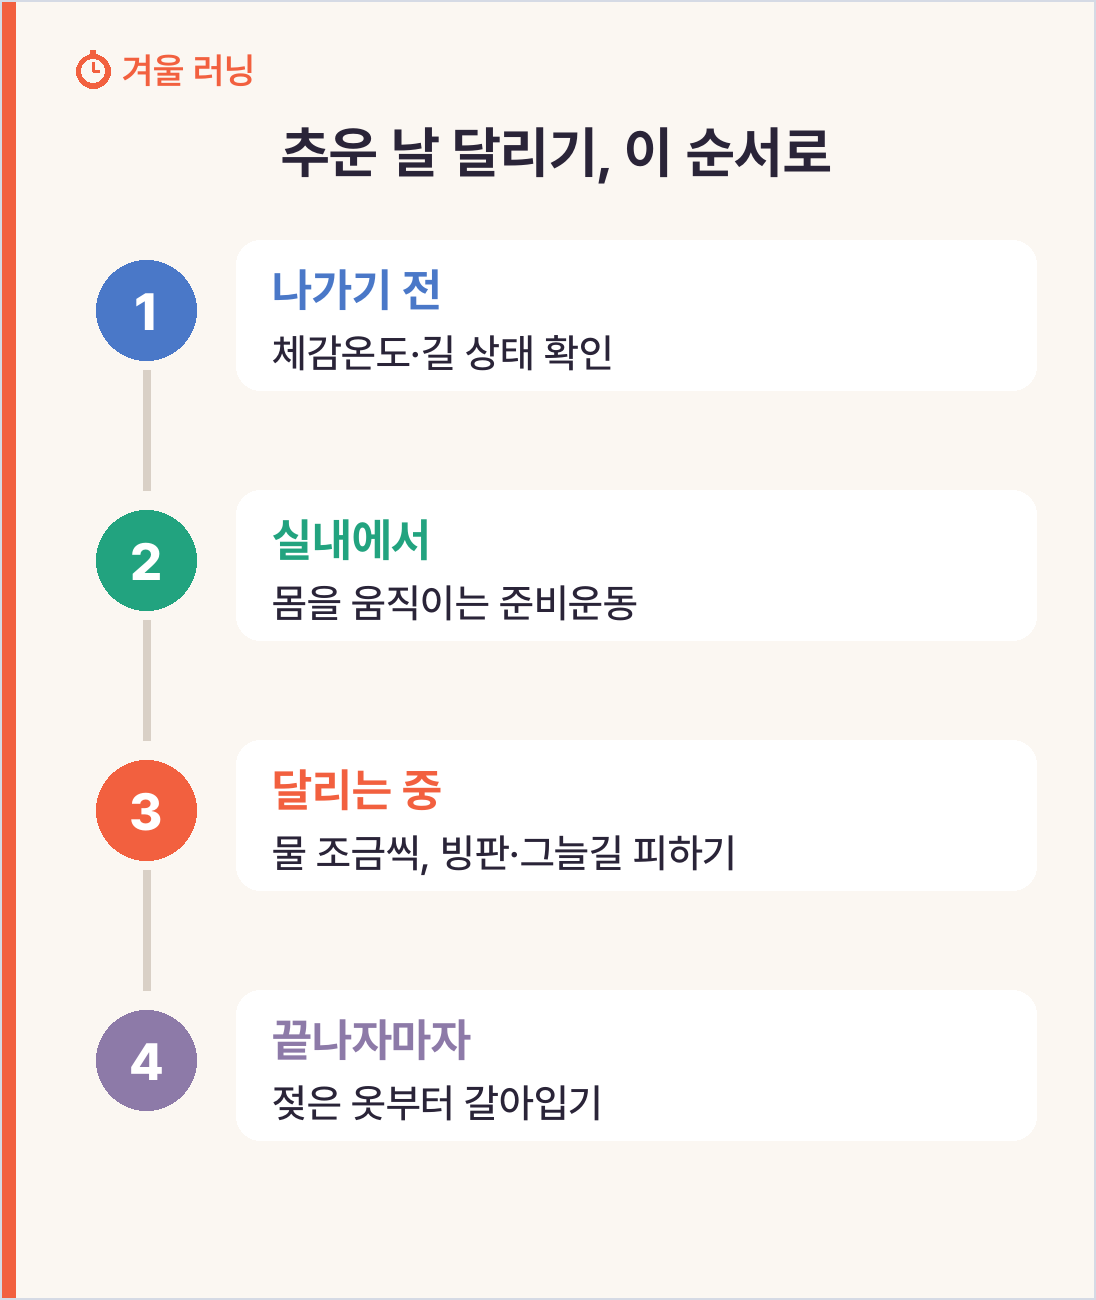
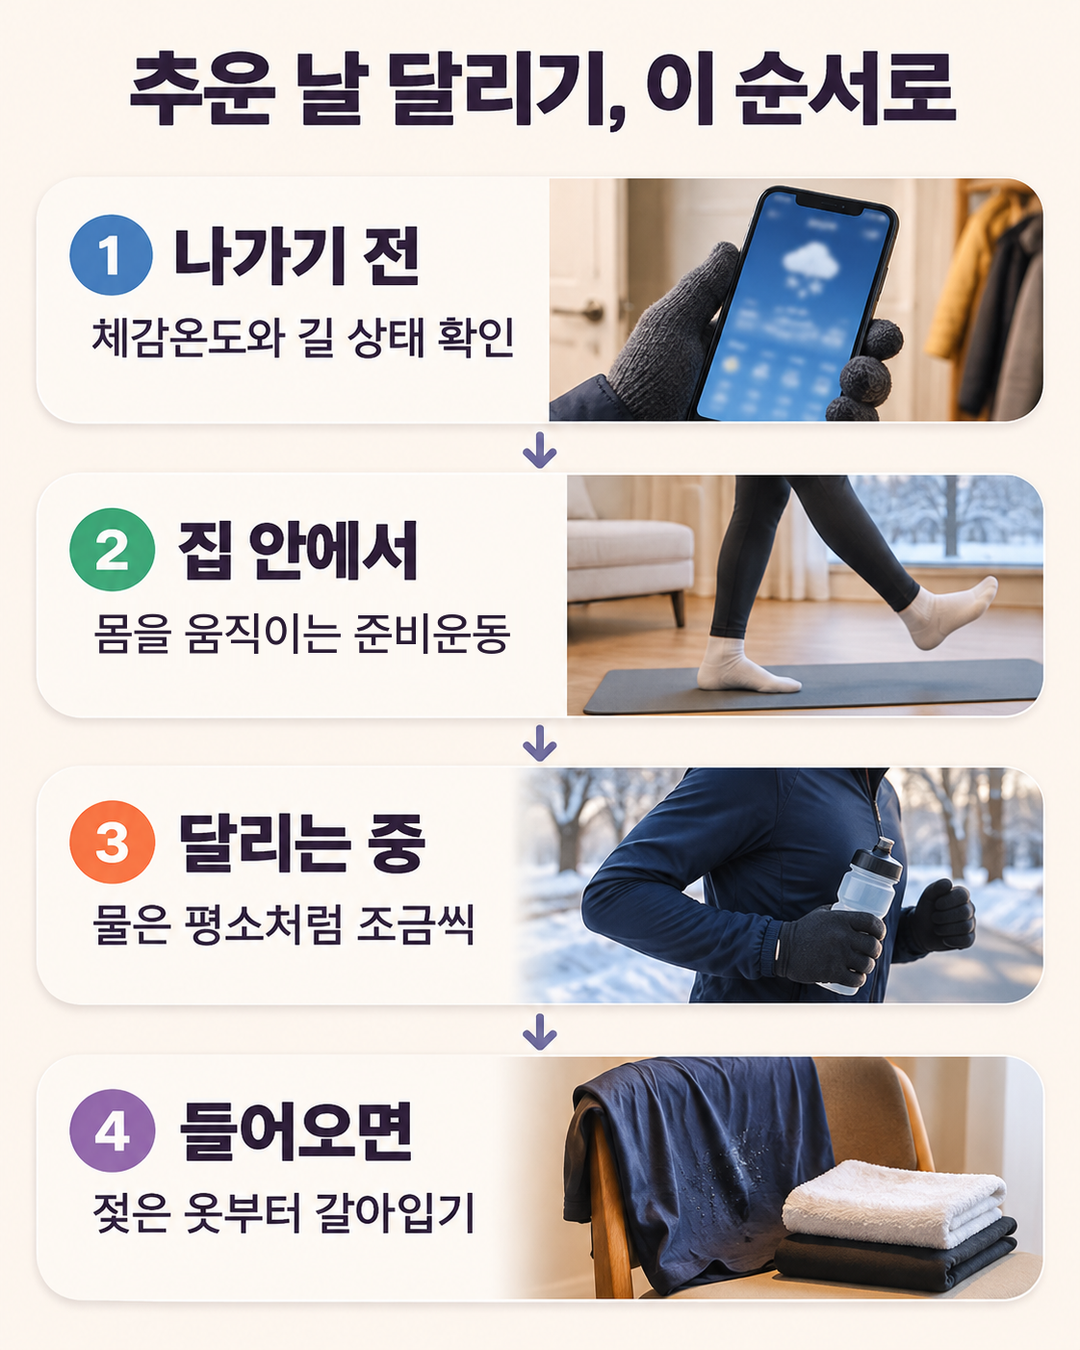
네이버 「겨울 러닝」 그림 03·04를 ChatGPT 그림으로 교체(04 오타 직접 수정), 이미지 요청 정리

diff --git a/문서/네이버-코딩가이드/20261128_겨울-러닝/index.html b/문서/네이버-코딩가이드/20261128_겨울-러닝/index.html
@@ -14,9 +14,9 @@
 디자인: 새벽 러닝 느낌 — 따뜻한 미색 바탕(#fbf7f2)·짙은 보라 남색 글자(#2a2438)·코랄(#f2603f)·민트(#22a37f)·하늘(#4a78c8)·연보라(#8d7aa8), Pretendard. 왼쪽 위 스톱워치 아이콘 + '겨울 러닝'(번호 없음). h3 기호 ▶, 강조색은 '이런 날은 쉬어 가기' 한 곳(코랄).
 - 01-타이틀.png (ChatGPT 실사풍, 1:1) — 사용자 요청으로 ChatGPT 타이틀로 교체(해 뜨기 전 서리 낀 공원 트랙과 뒷모습 러너, 글자 정확, 가장 넓은 줄 약 81%·세로 중심 약 49%, 로고·얼굴 없음, 1254 → 1080px. 원본은 자료실/제작-이미지).
 - 02-옷-겹쳐-입기.png (ChatGPT 에디토리얼 인포그래픽, 세로 1080×1350, 2026-11-28 교체: 바람막이·플리스·기능성 속옷 세 겹과 모자·장갑·목 가리개, 글자 정확, 로고·얼굴 없음, 1122×1402 → 1080×1350, 원본 scratchpad/backup/run-02-original.png. 앞 AI 버전은 세로 1152×1312 둥근 카드) — 겉(바람막이)·가운데(얇은 보온층)·속(땀이 빨리 마르는 옷) 세 겹과 모자·장갑·목 가리개.
-- 03-살짝-춥게-입기.png (AI, 1116×1036, 둥근 점선) — 실제 0℃ 아침이면 8~11℃ 날의 옷처럼 입는다는 것을 온도계 두 개로.
-- 04-달리기-전후-순서.png (AI, 세로 1096×1300, 왼쪽 띠) — 나가기 전·실내 준비운동·달리는 중·끝나자마자 네 단계.
-- 2026-11-28 사용자 요청으로 02·03·04도 ChatGPT 에디토리얼 인포그래픽(02 세로 1080×1350, 03 가로 1620×1080, 04 세로 1080×1350, 글자는 AI 버전과 같게, 03은 '공식 기준이 아닌 예시' 줄 추가)으로 요청함. 02는 받아 적용. 03·04는 처음 받은 그림 세 장이 두 그림을 한 장에 합쳤고, 03을 '0℃ 날 세 겹 vs 8~11℃ 날 두 겹'으로 그려 글 뜻과 반대였으며, 요청에 없는 글자('10~15분' 등)와 사람 얼굴이 있어 쓰지 않고 다시 요청함(받은 세 장은 자료실에 둠). 받기 전까지 AI 버전이 자리를 지킴(AI 버전 백업 scratchpad/backup/run-02·03·04-…-ai.png).
+- 03-살짝-춥게-입기.png (ChatGPT 반실사 에디토리얼, 가로 1620×1080, 2026-11-28 교체: 같은 러너가 서리 낀 현관 앞 '출발할 때'(쌀쌀) → 햇살 산책로 '달리는 중'(데워짐) 두 칸, 맨 아래 '바람이 세거나 아주 추운 날은 보온이 먼저', 온도 숫자 없음, 뒷모습만, 글자 정확, 1536×1024 → 1620×1080, 원본 scratchpad/backup/run-03-original.png)
+- 04-달리기-전후-순서.png (ChatGPT 반실사 에디토리얼, 세로 1080×1350, 2026-11-28 교체: 나가기 전·집 안에서·달리는 중·들어오면 네 칸, 손·다리만. 2번 설명 '움직어는' 오타를 '움직이는'으로 직접 고침(Pretendard Medium으로 줄 다시 씀), 1122×1402 → 1080×1350, 원본 scratchpad/backup/run-04-original.png)
+- 2026-11-28 사용자 요청으로 02·03·04도 ChatGPT 에디토리얼 인포그래픽(02 세로 1080×1350, 03 가로 1620×1080, 04 세로 1080×1350, 글자는 AI 버전과 같게, 03은 '공식 기준이 아닌 예시' 줄 추가)으로 요청함. 02는 받아 적용. 03·04는 처음 받은 그림 세 장이 두 그림을 한 장에 합쳤고, 03을 '0℃ 날 세 겹 vs 8~11℃ 날 두 겹'으로 그려 글 뜻과 반대였으며, 요청에 없는 글자('10~15분' 등)와 사람 얼굴이 있어 쓰지 않고 다시 요청함(받은 세 장은 자료실에 둠). 두 번째로 받은 03(8~11℃ 칸에 세 겹 옷)·04(바깥 준비운동, 겉옷 입기·정리 스트레칭 등 글에 없는 단계, 상표 같은 운동화 무늬)도 글과 맞지 않아, 사용자 요청으로 AI 그림과 상관없이 새로 구성해 다시 요청함(03은 숫자·온도계 없이 '출발할 때 쌀쌀 → 달리는 중 데워짐' 두 칸, 04는 '나가기 전·집 안에서·달리는 중·들어오면' 네 칸). 받은 그림은 지움. 세 번째로 받은 03·04를 적용함. 받기 전까지 AI 버전이 자리를 지킴(AI 버전 백업 scratchpad/backup/run-02·03·04-…-ai.png).
 - 05-함께-보면-좋은-글.png (AI 배너, 1600×234)
 - ChatGPT 요청은 타이틀 1장만(사용자 요청, 폰글 예외).
 

diff --git a/이미지요청-글.md b/이미지요청-글.md
@@ -21,41 +21,4 @@
 - **위아래 간격을 넉넉하게**: 제목 위 여백과 맨 아래 글 아래 여백은 각각 세로의 7% 이상, 제목과 그림 사이·그림과 아래 글 사이는 각각 5% 이상 띄워 주세요. 간격이 그림 크기보다 우선입니다. 알약·배지 속 글자는 이름표보다 크지 않게 작게 해 주세요.
 - **본문 인포그래픽의 글자는 너무 크지 않게**: 1080px 기준 제목 38~44px·이름표 28~32px·설명 24~28px 안팎이 기본이며, 각 항목에 적힌 크기보다 크게 하지 마세요.
 
-## [네이버] 겨울 러닝, 몇 도까지 괜찮을까? — 문서/네이버-코딩가이드/20261128_겨울-러닝
-
-### 03-살짝-춥게-입기.png (본문 인포그래픽, 가로 3:2, 1620×1080)
-- **다시 요청(2026-11-28)**: 앞서 받은 그림은 03과 04를 한 장에 합쳐 그렸고, 03을 '0℃ 날은 세 겹, 8~11℃ 날은 두 겹'처럼 **서로 다른 두 날씨**로 그려 이 글의 뜻과 반대였습니다. 이 그림의 뜻은 '**같은 0℃ 아침에, 옷은 8~11℃ 날처럼 조금 가볍게 고른다**'입니다(날이 두 개가 아님). 이 항목 하나만 한 장으로 그리고, 04와 합치지 마세요. 사람(얼굴)을 넣지 말고 온도계와 옷만 그리세요.
-- 종류: 세련된 에디토리얼 인포그래픽(반실사 3D 일러스트). 독자는 성인 — 내용은 쉽게, 표현은 세련되게. 귀여운 캐릭터·말풍선·반짝이·장난감 같은 3D·굵은 테두리 만화 글씨 금지.
-- 장면: 왼쪽에 서리 낀 새벽 현관 앞 유리 온도계(눈금이 0℃, 파란 액체), 오른쪽에 같은 모양 온도계(눈금이 8~11℃ 구간, 코랄 액체)와 그 옆에 얇은 러닝 긴팔과 바람막이 한 벌. 가운데에 왼쪽에서 오른쪽으로 가는 가는 화살표. 온도계 두 개와 옷이 화면의 60~70%를 차지하게.
-- 넣을 글자(적힌 그대로, 이것만):
-  - 제목(맨 위 가운데): 실제 기온보다 조금 따뜻한 날처럼 입기
-  - 화살표 위: 달리면 데워져요
-  - 왼쪽 온도계 옆 숫자: 0℃ / 아래 이름표: 실제 기온 / 그 아래 설명: 예: 0℃ 아침
-  - 오른쪽 온도계 옆 숫자: 8~11℃ / 아래 이름표: 옷차림 참고 / 그 아래 설명: 예: 8~11℃ 날의 옷
-  - 맨 아래 한 줄: 공식 기준이 아닌 예시예요 · 바람이 세거나 아주 추운 날은 보온이 먼저
-- 글자 크기(가로 1620px 기준, 이보다 크게 하지 말 것): 제목 40~44px, 온도 숫자 44~48px, 이름표 28~32px, 설명·화살표 글자 24~26px, 맨 아래 한 줄 22~24px. 굵은 글씨는 제목·숫자·이름표에만.
-- 여백·간격: 네 변 가장자리 5~7% 안쪽만 비우기. 제목 위 여백과 맨 아래 글 아래 여백은 각각 75~80px 이상, 제목–그림 사이와 그림–아래 글 사이는 55~60px 이상, 아래 글 두 줄 사이 20px 안팎. 간격이 그림 크기보다 우선(모자라면 그림을 줄일 것). 너무 빡빡하지도, 너무 비지도 않게.
-- 색: 따뜻한 미색 바탕(#fbf7f2), 글자는 짙은 보라 남색(#2a2438), 차가운 쪽 하늘색(#4a78c8), 따뜻한 쪽 코랄(#f2603f). 단정한 고딕체.
-- 금지: 화씨(℉) 표기, 상표·로고, 사람 얼굴, 테두리(액자), 적은 것 외의 요소·문장.
-- 이 그림이 알려 주는 것: 달리면 몸이 데워지니 출발할 때는 실제 기온보다 따뜻한 날의 옷차림을 참고한다는 것(공식 기준이 아니라 예시라는 점까지).
-
-### 04-달리기-전후-순서.png (본문 인포그래픽, 세로 4:5, 1080×1350)
-- **다시 요청(2026-11-28)**: 앞서 받은 그림은 03과 합쳐 한 장에 그렸고, 요청에 없는 글자('10~15분', '따뜻한 음료', '정리 스트레칭' 등)와 사람 얼굴이 들어갔습니다. 이 항목 하나만 한 장(세로 1080×1350)으로 그리고, 아래 '넣을 글자'만 적힌 그대로 쓰세요. 얼굴이 보이는 사람은 넣지 말고 손·다리·뒷모습만 쓰세요.
-- 종류: 세련된 에디토리얼 인포그래픽(반실사 3D 일러스트). 독자는 성인 — 내용은 쉽게, 표현은 세련되게. 귀여운 캐릭터·말풍선·반짝이·장난감 같은 3D·굵은 테두리 만화 글씨 금지.
-- 장면: 위에서 아래로 이어지는 네 단계 길(얇은 선으로 이어진 네 칸). 칸마다 작은 장면 그림 하나:
-  ① 현관 안에서 휴대폰 날씨 화면을 보는 손(화면 글자는 흐리게)
-  ② 거실 매트 위에서 다리를 흔드는 운동화 신은 다리(얼굴 없이 하반신만)
-  ③ 겨울 새벽 산책로를 달리는 뒷모습과 손에 든 작은 물병, 길가 그늘의 살얼음
-  ④ 현관에 벗어 둔 젖은 러닝 옷과 접힌 마른 수건·새 옷
-- 넣을 글자(적힌 그대로, 이것만):
-  - 제목(맨 위 가운데): 추운 날 달리기, 이 순서로
-  - 1 / 나가기 전 / 체감온도·길 상태 확인
-  - 2 / 실내에서 / 몸을 움직이는 준비운동
-  - 3 / 달리는 중 / 물 조금씩, 빙판·그늘길 피하기
-  - 4 / 끝나자마자 / 젖은 옷부터 갈아입기
-- 글자 크기(가로 1080px 기준, 이보다 크게 하지 말 것): 제목 40~44px, 번호 28~32px, 단계 이름 28~32px, 설명 24~26px. 굵은 글씨는 제목과 단계 이름에만.
-- 여백·간격: 네 변 가장자리 5~7% 안쪽만 비우기. 제목 위 여백과 맨 아래 글 아래 여백은 각각 75~80px 이상, 제목–첫 칸 사이 55~60px 이상, 칸과 칸 사이 고르게. 네 칸이 화면 높이 전체에 고르게 퍼지게(아래쪽이 휑하게 비지 않게). 간격이 그림 크기보다 우선. 너무 빡빡하지도, 너무 비지도 않게.
-- 색: 따뜻한 미색 바탕(#fbf7f2), 글자는 짙은 보라 남색(#2a2438). 단계 색은 1 하늘(#4a78c8), 2 민트(#22a37f), 3 코랄(#f2603f), 4 연보라(#8d7aa8). 단정한 고딕체.
-- 금지: 상표·로고·브랜드 글자, 사람 얼굴(뒷모습·손·다리만), 테두리(액자), 적은 것 외의 요소·문장.
-- 이 그림이 알려 주는 것: 나가기 전부터 끝난 뒤까지 챙길 일을 순서대로 한눈에.
-
+현재 요청 없음

diff --git a/AGENTS.md b/AGENTS.md
@@ -288,7 +288,7 @@
   - 같은 날 사용자 요청으로 h3 '배터리 숫자가 뚝 떨어졌다 다시 오르는 이유' 추가(공백 포함 1,807자): 퍼센트는 전류·전압으로 어림한 값(Battery University BU-903), 추위에 줄어든 용량은 실온에서 회복(BU-502). 표시가 다시 오르는 현상은 제조사 공식 문장이 없어 '알려져 있다'로. 이어서 사용자 요청으로 01 타이틀을 ChatGPT 그림('겨울 폰 배터리 / 왜 빨리 닳을까?', 눈 오는 정류장·장갑 낀 손·빈 배터리 화면)으로 바꿈(폰글 규칙의 예외, 사용자 요청).
 
 - (2026-11-28 진행 상황 이어서) 네이버 「블랙아이스, 왜 안 보일까? 잘 생기는 곳과 운전·보행 요령」 작성(폰글 두 번째, 생활 정보, 이미지 5장 AI 제작, 그림 스크립트 `도구/폰글이미지_블랙아이스.py`, 폴더 `문서/네이버-코딩가이드/20261128_블랙아이스`).
-- (2026-11-28 진행 상황 이어서) 네이버 「겨울 러닝, 몇 도까지 괜찮을까? 옷차림부터 쉬어야 할 날까지」 작성(폰글 세 번째, 여행·취미·문화, 이미지 5장 AI 제작, 그림 스크립트 `도구/폰글이미지_겨울러닝.py`, 폴더 `문서/네이버-코딩가이드/20261128_겨울-러닝`). 같은 날 사용자 요청으로 01 타이틀을 ChatGPT 그림으로 바꿨고, 02 옷 겹쳐 입기·03 살짝 춥게 입기·04 달리기 전후 순서도 ChatGPT 인포그래픽으로 요청함(받기 전까지 AI 버전이 자리를 지킴). 02는 받아 적용. 03·04는 처음 받은 그림이 두 그림을 한 장에 합쳤고, 03을 '0℃ 날 세 겹 vs 8~11℃ 날 두 겹'처럼 서로 다른 두 날씨로 그려 글 뜻(같은 0℃ 아침에 8~11℃ 날 옷처럼 입기)과 반대여서 다시 요청함. **여러 항목을 한꺼번에 요청하면 ChatGPT가 한 장에 합쳐 그릴 수 있으니, 받은 뒤 항목이 섞이지 않았는지와 그림의 뜻이 글과 같은지 확인한다.**
+- (2026-11-28 진행 상황 이어서) 네이버 「겨울 러닝, 몇 도까지 괜찮을까? 옷차림부터 쉬어야 할 날까지」 작성(폰글 세 번째, 여행·취미·문화, 이미지 5장 AI 제작, 그림 스크립트 `도구/폰글이미지_겨울러닝.py`, 폴더 `문서/네이버-코딩가이드/20261128_겨울-러닝`). 같은 날 사용자 요청으로 01 타이틀을 ChatGPT 그림으로 바꿨고, 02 옷 겹쳐 입기·03 살짝 춥게 입기·04 달리기 전후 순서도 ChatGPT 인포그래픽으로 요청함(받기 전까지 AI 버전이 자리를 지킴). 02는 받아 적용. 03·04는 처음 받은 그림이 두 그림을 한 장에 합쳤고, 03을 '0℃ 날 세 겹 vs 8~11℃ 날 두 겹'처럼 서로 다른 두 날씨로 그려 글 뜻(같은 0℃ 아침에 8~11℃ 날 옷처럼 입기)과 반대여서 다시 요청함. **여러 항목을 한꺼번에 요청하면 ChatGPT가 한 장에 합쳐 그릴 수 있으니, 받은 뒤 항목이 섞이지 않았는지와 그림의 뜻이 글과 같은지 확인한다.** 두 번째로 받은 03·04도 글과 맞지 않아 사용자 요청으로 앞 그림과 상관없이 새로 구성해 요청했고(03은 숫자·온도계 없이 두 칸, 04는 본문 그대로의 네 칸), 세 번째로 받은 그림을 적용함(04의 '움직어는' 오타는 직접 고침). **ChatGPT가 글자를 계속 바꿔 그리면 넣을 글자를 줄이고 장면 하나에 뜻 하나만 담아 새로 구성한다.**
 
 ## 진행 상황 (2026-11-27 기준)
 - 2026-11-27: `문서/네이버-코딩가이드/20261127_19개/20261127_뉴욕-LOS-TACOS-NO1/index.html` 작성("뉴욕 타코 맛집 LOS TACOS No.1, 주문하는 법과 메뉴", 카테고리 여행·취미·문화, 공백 포함 2,014자). 사용자 사진(`자료실/사진자료/뉴욕-LOS TACOS NO1/`, 2026.5.11 18시 무렵)으로 쓴 맛집 글. 사용자 확인: 지점 229 W 43rd St(타임스스퀘어점), 주문 메뉴는 기억 안 남, 서서 먹고 사람 많아 정신없음, 줄은 좀 기다림.
